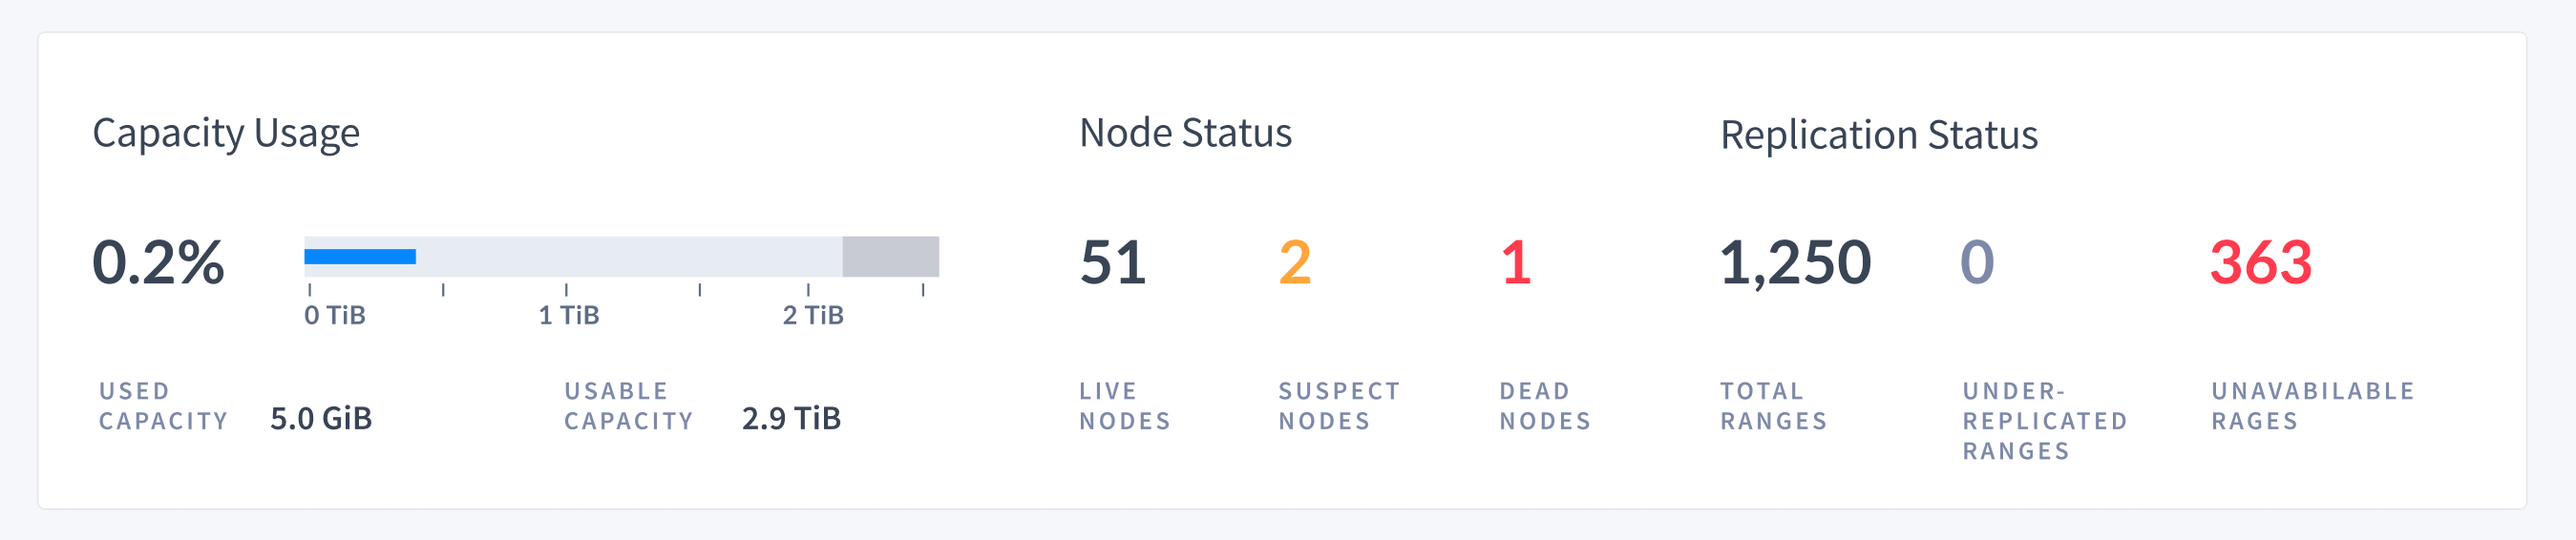
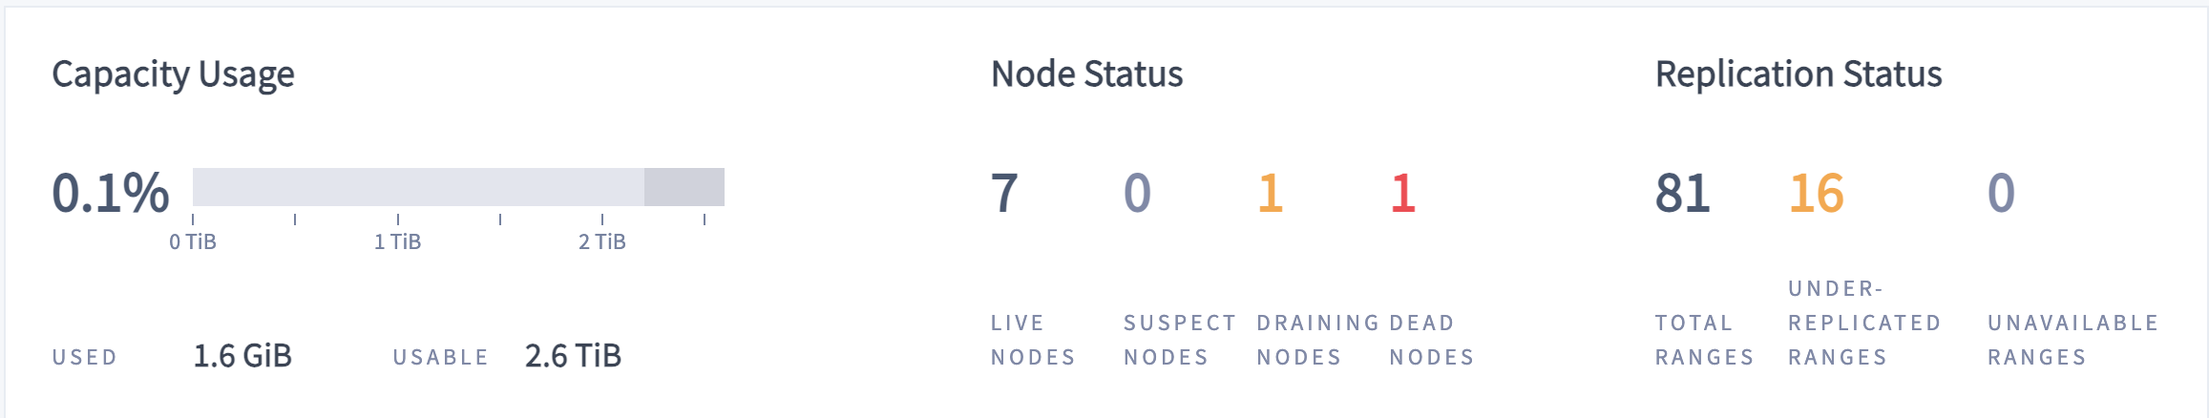
(1) Updated Cluster Overview page, updated image and added DRAINING as a Node Status.

diff --git a/src/current/v23.1/ui-cluster-overview-page.md b/src/current/v23.1/ui-cluster-overview-page.md
@@ -23,7 +23,7 @@ Use the **Cluster Overview** panel to quickly assess the capacity and health of 
 Metric | Description
 --------|----
 Capacity Usage | <ul><li>Used: The total disk space in use by CockroachDB data across all nodes. This excludes the disk space used by the Cockroach binary, operating system, and other system files.</li><li>Usable: The total disk space usable by CockroachDB data across all nodes. This cannot exceed the store size, if one has been set using [`--store`]({% link {{ page.version.version }}/cockroach-start.md %}#store).</li></ul>See [Capacity metrics](#capacity-metrics) for details on how these values are calculated.
-Node Status | <ul><li>The number of `LIVE` nodes in the cluster.</li><li>The number of `SUSPECT` nodes in the cluster. A node is considered suspect if its [liveness status is unavailable]({% link {{ page.version.version }}/cluster-setup-troubleshooting.md %}#node-liveness-issues) or the node is in the process of [decommissioning](#decommissioned-nodes) or draining.</li><li>The number of `DEAD` nodes in the cluster.</li>
+Node Status | <ul><li>The number of `LIVE` nodes in the cluster.</li><li>The number of `SUSPECT` nodes in the cluster. A node is considered suspect if its [liveness status is unavailable]({% link {{ page.version.version }}/cluster-setup-troubleshooting.md %}#node-liveness-issues) or the node is in the process of [decommissioning](#decommissioned-nodes).</li><li>The number of `DRAINING` nodes in the cluster.</li><li>The number of `DEAD` nodes in the cluster.</li>
 Replication Status | <a name="replication-status"></a> <ul><li>The total number of [ranges]({% link {{ page.version.version }}/architecture/glossary.md %}#architecture-range) in the cluster.</li><li>The number of [under-replicated ranges]({% link {{ page.version.version }}/ui-replication-dashboard.md %}#review-of-cockroachdb-terminology) in the cluster. A non-zero number indicates an unstable cluster.</li><li>The number of [unavailable ranges]({% link {{ page.version.version }}/ui-replication-dashboard.md %}#review-of-cockroachdb-terminology) in the cluster. A non-zero number indicates an unstable cluster.</li>
 
 ### Capacity metrics
